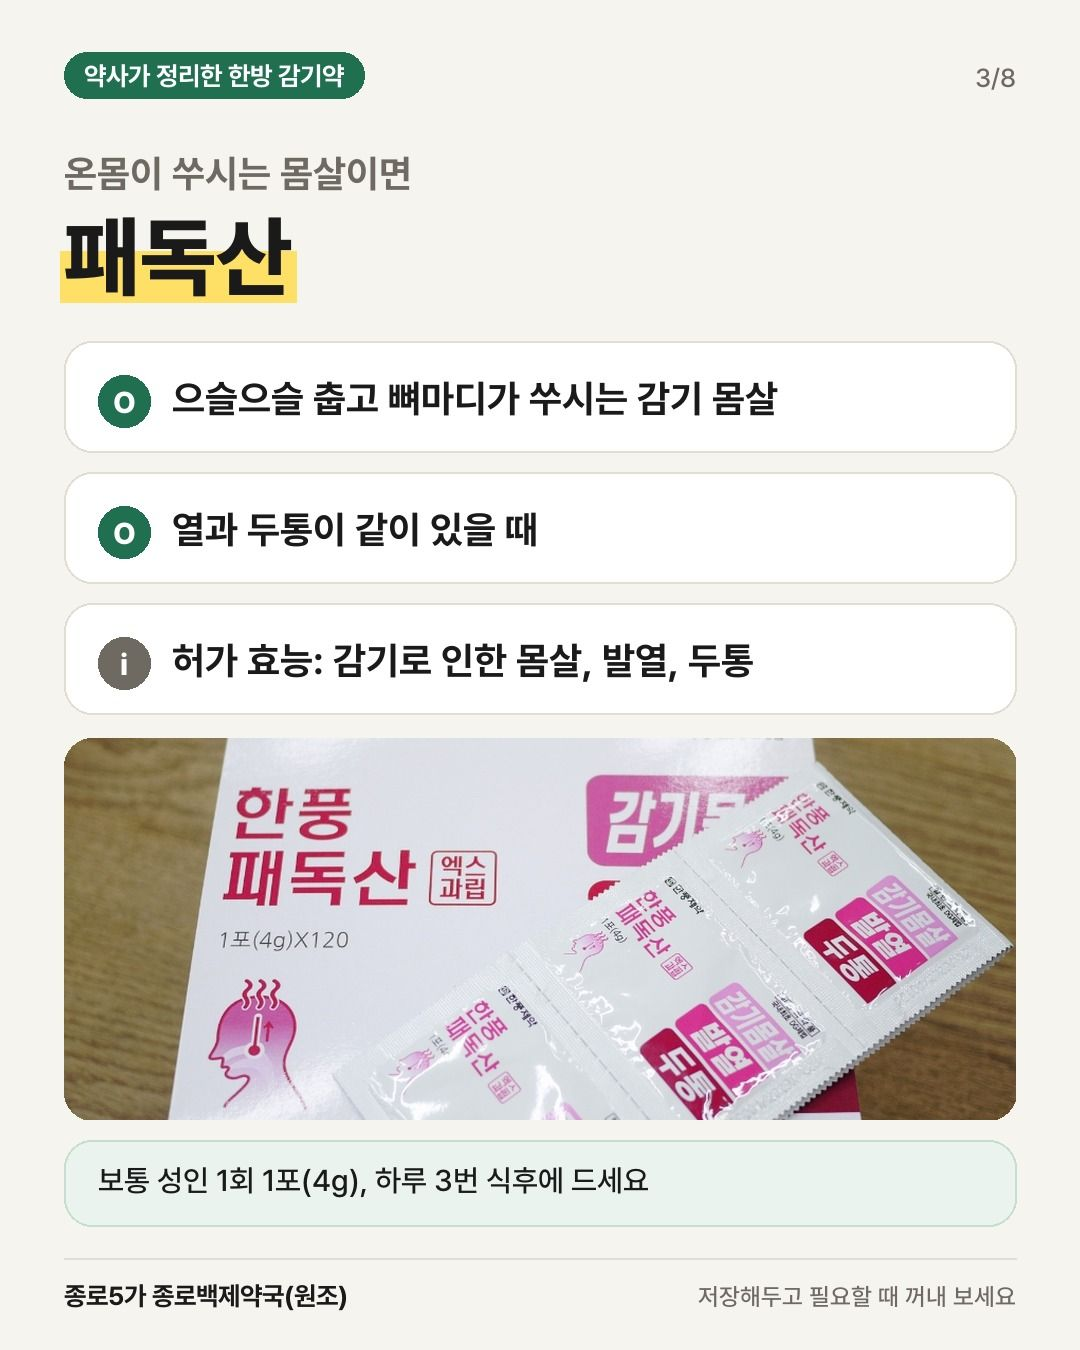
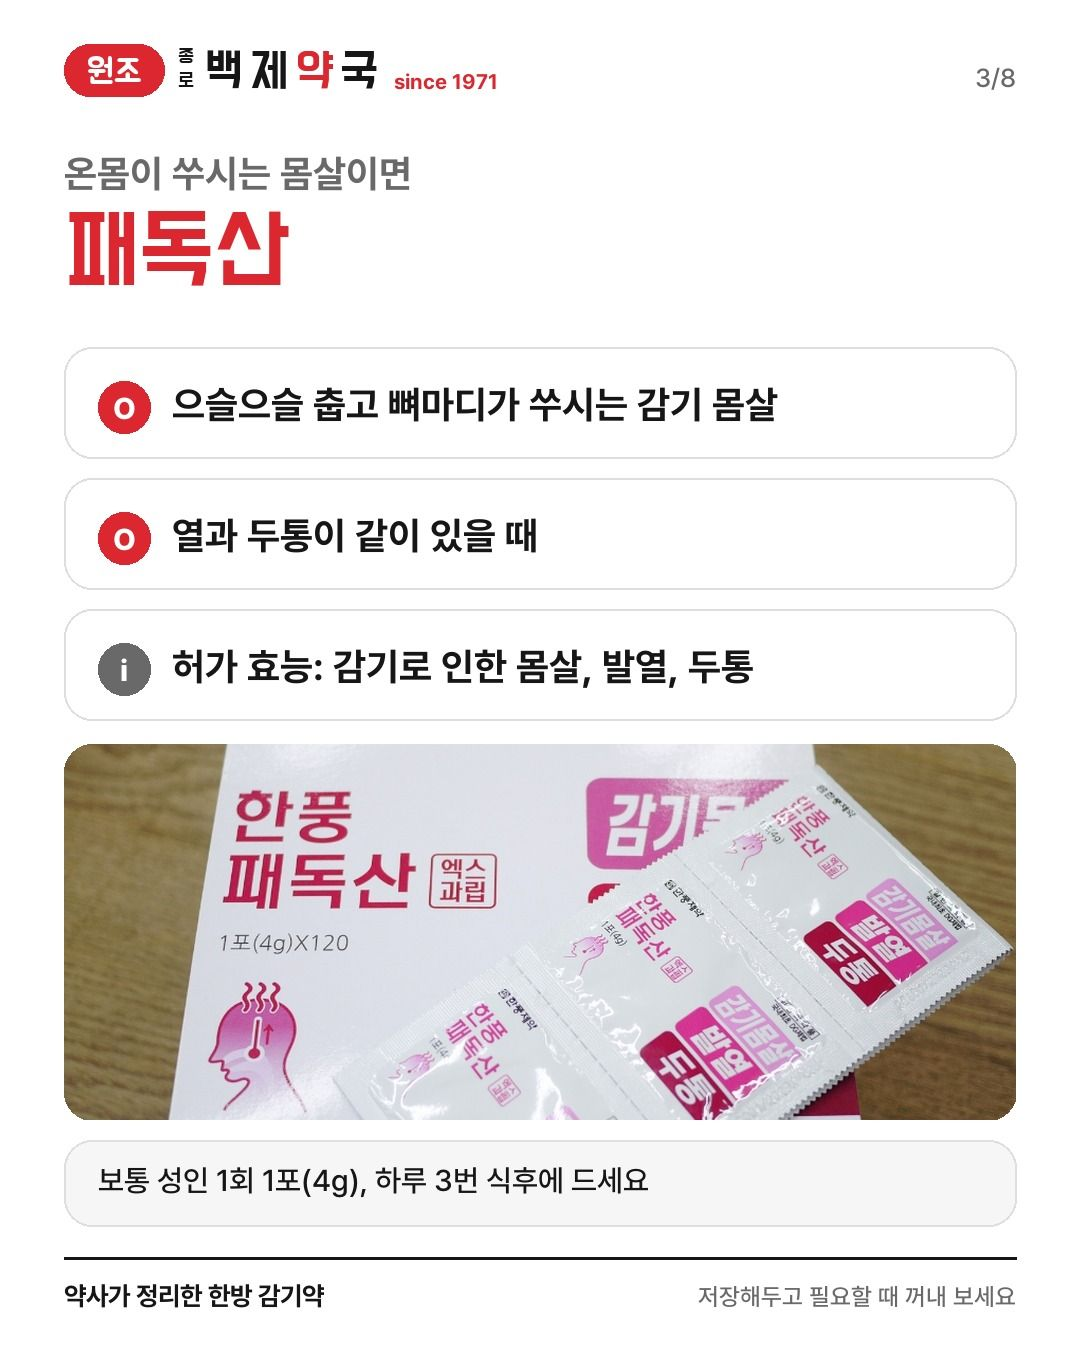
간판 스타일(흰·검·빨)로 디자인 변경

diff --git a/index.html b/index.html
@@ -13,7 +13,7 @@
 *{box-sizing:border-box;margin:0;padding:0}
 body{font-family:-apple-system,BlinkMacSystemFont,"Apple SD Gothic Neo","Pretendard","Noto Sans KR",sans-serif;background:#fff;color:#000;-webkit-font-smoothing:antialiased}
 .app{max-width:470px;margin:0 auto;min-height:100vh;background:#fff;position:relative}
-.notice{background:#1f6f50;color:#fff;font-size:13px;text-align:center;padding:8px 12px;line-height:1.4}
+.notice{background:#161616;color:#fff;font-size:13px;text-align:center;padding:8px 12px;line-height:1.4}
 .topbar{position:sticky;top:0;z-index:5;background:#fff;height:48px;display:flex;align-items:center;justify-content:space-between;padding:0 16px;border-bottom:1px solid #efefef}
 .topbar .h{font-weight:700;font-size:18px;display:flex;align-items:center;gap:6px}
 .topbar .back{font-size:26px;line-height:1;cursor:pointer;width:28px}
